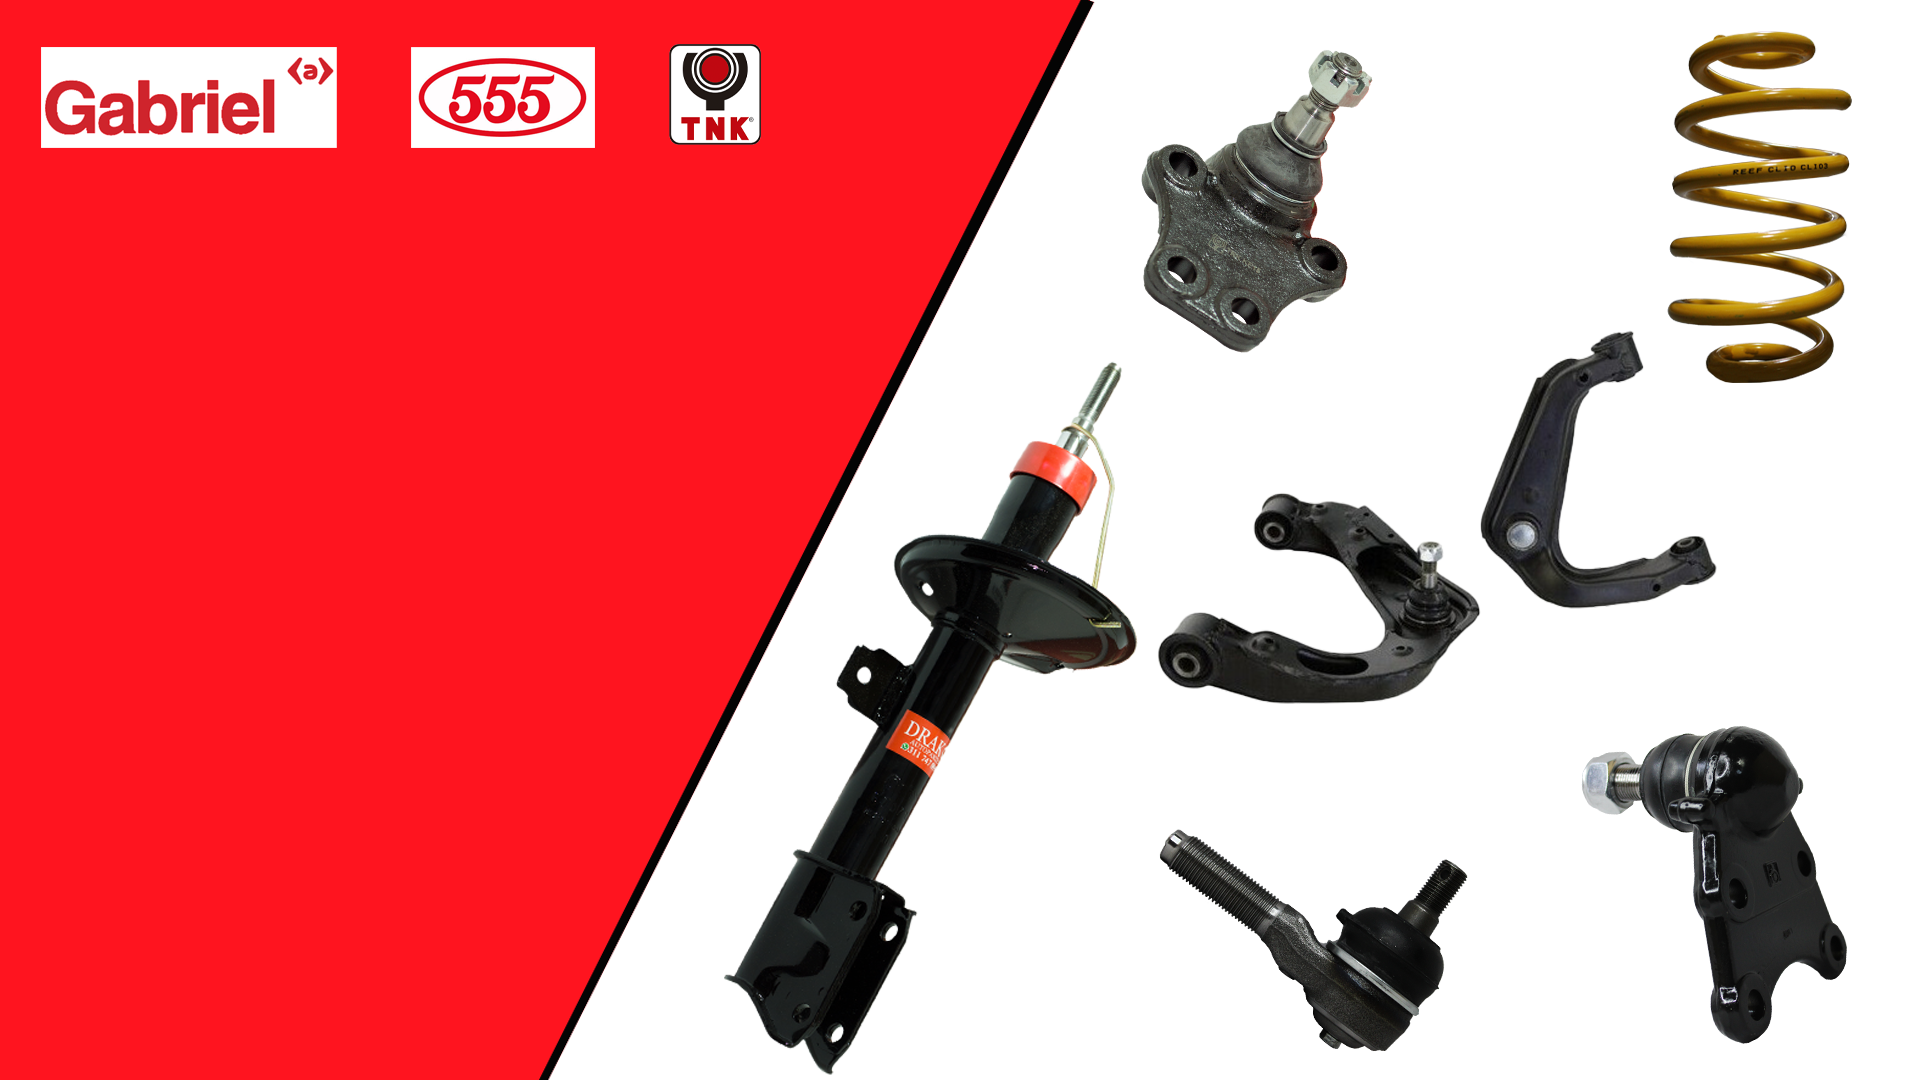
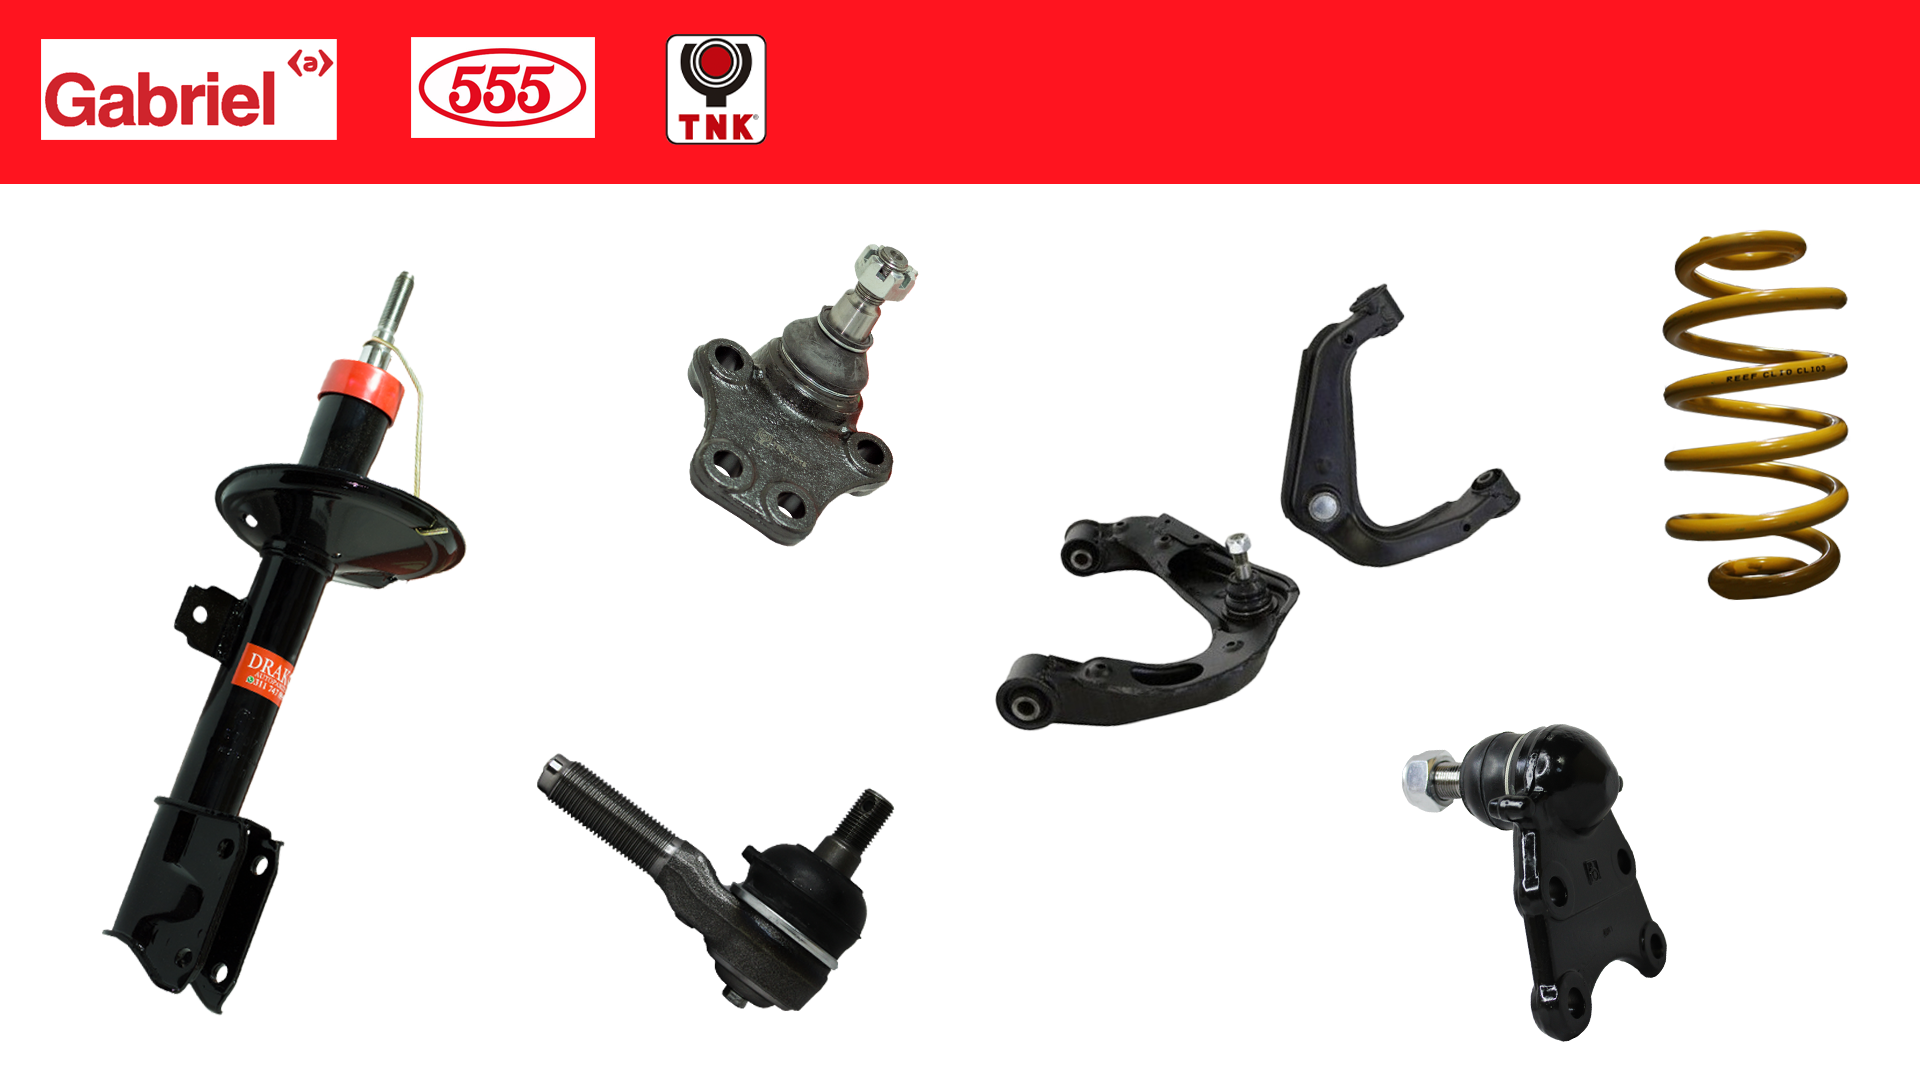
sliders

diff --git a/components/comunes/slider/Slider.vue b/components/comunes/slider/Slider.vue
@@ -8,31 +8,28 @@
         <SliderCard
           img="/slider/slider-1.png"
           alineacion="slider1"
-          text="La mejores marcas en lubricantes"
+          
           
         />
         <SliderCard
           img="/slider/slider-2.png"
           alineacion="slider2"
-          text="Bombas de clutch y kits"
+          
           
         />
         <SliderCard
           img="/slider/slider-3.png"
           alineacion="slider3"
-          text="Bombas de agua y correas de distribución"
+          
           
         />
         <SliderCard
           img="/slider/slider-4.png"
-          text="Puntas, rótulas y terminales"
           alineacion="slider4"
         />
         <SliderCard
           img="/slider/slider-5.png"
           alineacion="slider5"
-          text="Suspensiones multimarca"
-          
         />
       
     </div>
